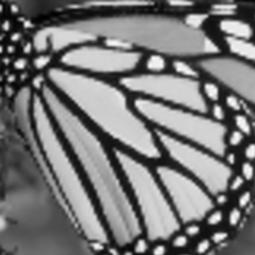
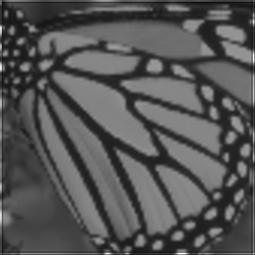
c

diff --git a/CW1_for_students/CW1_Handout_Template_code/tf-SRCNN/srcnn.py b/CW1_for_students/CW1_Handout_Template_code/tf-SRCNN/srcnn.py
@@ -97,21 +97,21 @@ biases = {
 # replace 'None' with your layers: use the tf.nn.conv2d() and tf.nn.relu()
 # conv1 layer with biases and relu : 64 filters with size 9 x 9
 
-conv1 = tf.nn.conv2d(inputs, weights['w1'], strides=[1, 1, 1, 1], padding='VALID')
+conv1 = tf.nn.conv2d(inputs, weights['w1'], strides=[1, 1, 1, 1], padding='SAME')
 conv1 = tf.nn.bias_add(conv1, biases['b1'])
 conv1 = tf.nn.relu(conv1)
 
 ##------ Add your code here: to compute non-linear mapping
 # conv2 layer with biases and relu: 32 filters with size 1 x 1
 
-conv2 = tf.nn.conv2d(conv1, weights['w2'], strides=[1, 1, 1, 1], padding='VALID')
+conv2 = tf.nn.conv2d(conv1, weights['w2'], strides=[1, 1, 1, 1], padding='SAME')
 conv2 = tf.nn.bias_add(conv2, biases['b2'])
 conv2 = tf.nn.relu(conv2)
 ##------ Add your code here: compute the reconstruction of high-resolution image
 # conv3 layer with biases and NO relu: 1 filter with size 5 x 5
-conv3 = tf.nn.conv2d(conv2, weights['w3'], strides=[1, 1, 1, 1], padding='VALID')
+conv3 = tf.nn.conv2d(conv2, weights['w3'], strides=[1, 1, 1, 1], padding='SAME')
 conv3 = tf.nn.bias_add(conv3, biases['b3'])
-
+# conv3 = tf.nn.sigmoid(conv3)
 """Load the pre-trained model file
 """
 model_path='./model/model.npy'
@@ -142,26 +142,26 @@ num_filters_conv3 = len(conv3_b)
 size_filters_conv3 = len(conv3_w)
 
 # To show the value	of the 1st filter
-print('The 1st filter in first convolutional layer is %.2f')
-print(conv1_w[0])
+print('The 1st filter in first convolutional layer is ')
+print(conv1_w[:,:,:,0])
+
 # To show the bias of the 10th filter
 print('The 10th bias in first convolutional layer is ')
 print(conv1_b[9])
 
 # To show the value	of the 5st filter
-print('The 1st filter in first convolutional layer is ')
-print(conv2_w[0])
+print('The 5st filter in second convolutional layer is ')
+print(conv2_w[:,:,:,4])
 # To show the bias of the 6th filter
-print('The 10th bias in first convolutional layer is ')
-print(conv2_b[0])
+print('The 6th bias in second convolutional layer is ')
+print(conv2_b[5])
 
 # To show the value	of the 1st filter
-print('The 1st filter in first convolutional layer is ')
-print(conv2_w[0])
+print('The 1st filter in third convolutional layer is ')
+print(conv3_w[:,:,:,0])
 # To show the bias of the 1th filter
-print('The 10th bias in first convolutional layer is ')
-print(conv2_b[0])
-
+print('The 10th bias in third convolutional layer is ')
+print(conv3_b[0])
 
 """Initialize the model variabiles (w1, w2, w3, b1, b2, b3) with the pre-trained model file
 """
@@ -187,8 +187,8 @@ input_ = np.expand_dims(np.expand_dims(blurred_image, axis =0), axis=-1)
 # here you can also run to get feature map like 'conv1' and 'conv2'
 ouput_ = sess.run(conv3, feed_dict={inputs: input_})
 ouput_ = ouput_.squeeze()
-import cv2
-ouput_ = cv2.resize(ouput_, dsize=(255, 255), interpolation=cv2.INTER_CUBIC)
+# import cv2
+# ouput_ = cv2.resize(ouput_, dsize=(255, 255), interpolation=cv2.INTER_CUBIC)
 
 
 ##------ Add your code here: save the blurred and SR images and compute the psnr
